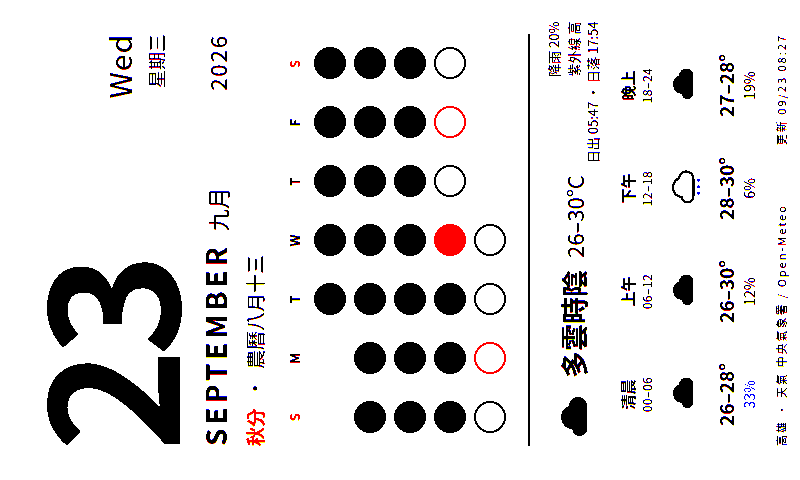
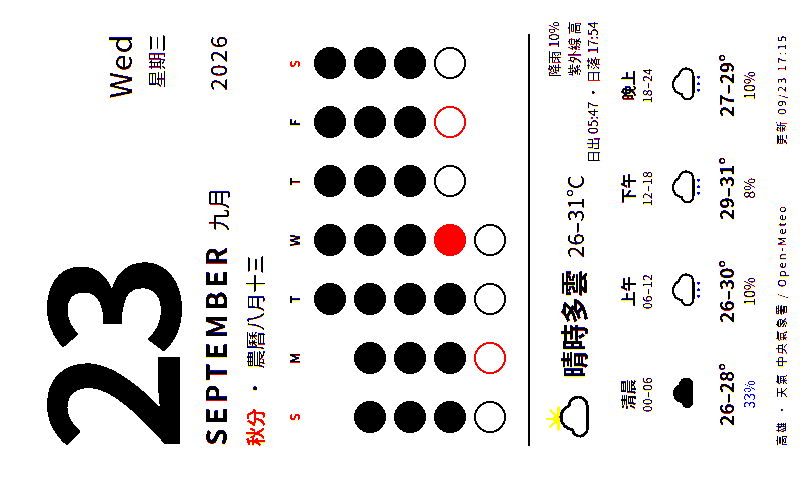
deploy: cf7d1051eb6821bc691ba0ade4beb12cdf9fe0ef

diff --git a/calendar.html b/calendar.html
@@ -54,9 +54,9 @@
   <div class="today"><span class="hl">秋分</span><span>·</span><span class="lunar">農曆八月十三</span></div>
   <div class="grid"><div class="h we">S</div><div class="h">M</div><div class="h">T</div><div class="h">W</div><div class="h">T</div><div class="h">F</div><div class="h we">S</div><div class="dot empty"></div><div class="dot empty"></div><div class="dot past" title="1"></div><div class="dot past" title="2"></div><div class="dot past" title="3"></div><div class="dot past" title="4"></div><div class="dot past" title="5"></div><div class="dot past" title="6"></div><div class="dot past" title="7"></div><div class="dot past" title="8"></div><div class="dot past" title="9"></div><div class="dot past" title="10"></div><div class="dot past" title="11"></div><div class="dot past" title="12"></div><div class="dot past" title="13"></div><div class="dot past" title="14"></div><div class="dot past" title="15"></div><div class="dot past" title="16"></div><div class="dot past" title="17"></div><div class="dot past" title="18"></div><div class="dot past" title="19"></div><div class="dot past" title="20"></div><div class="dot past" title="21"></div><div class="dot past" title="22"></div><div class="dot now" title="23"></div><div class="dot future" title="24"></div><div class="dot future hol" title="25"></div><div class="dot future" title="26"></div><div class="dot future" title="27"></div><div class="dot future hol" title="28"></div><div class="dot future" title="29"></div><div class="dot future" title="30"></div></div>
   <div class="wx"><div class="line">
-    <div class="wxhead"><svg viewBox="0 0 64 68" xmlns="http://www.w3.org/2000/svg"><path d="M20 50h26a11 11 0 0 0 1-22 15 15 0 0 0-29 4 9 9 0 0 0 2 18z" fill="#000"/></svg><span class="desc">多雲時陰</span><span class="temp">26–30°C</span>
-      <div class="meta">降雨 20%<br>紫外線 高<br>日出 05:47 · 日落 17:54</div></div>
-    <div class="slots"><div class="slot"><div class="n">清晨</div><div class="hrs">00–06</div><svg viewBox="0 0 64 68" xmlns="http://www.w3.org/2000/svg"><path d="M20 50h26a11 11 0 0 0 1-22 15 15 0 0 0-29 4 9 9 0 0 0 2 18z" fill="#000"/></svg><div class="t">26–28°</div><div class="p ">33%</div></div><div class="slot"><div class="n">上午</div><div class="hrs">06–12</div><svg viewBox="0 0 64 68" xmlns="http://www.w3.org/2000/svg"><path d="M20 50h26a11 11 0 0 0 1-22 15 15 0 0 0-29 4 9 9 0 0 0 2 18z" fill="#000"/></svg><div class="t">26–30°</div><div class="p dry">12%</div></div><div class="slot"><div class="n">下午</div><div class="hrs">12–18</div><svg viewBox="0 0 64 68" xmlns="http://www.w3.org/2000/svg"><path d="M20 50h26a11 11 0 0 0 1-22 15 15 0 0 0-29 4 9 9 0 0 0 2 18z" fill="#fff" stroke="#000" stroke-width="3.5" stroke-linejoin="round"/><g fill="#0040ff"><circle cx="24" cy="58" r="2.2"/><circle cx="34" cy="58" r="2.2"/><circle cx="44" cy="58" r="2.2"/></g></svg><div class="t">28–30°</div><div class="p dry">6%</div></div><div class="slot"><div class="n">晚上</div><div class="hrs">18–24</div><svg viewBox="0 0 64 68" xmlns="http://www.w3.org/2000/svg"><path d="M20 50h26a11 11 0 0 0 1-22 15 15 0 0 0-29 4 9 9 0 0 0 2 18z" fill="#000"/></svg><div class="t">27–28°</div><div class="p dry">19%</div></div></div>
+    <div class="wxhead"><svg viewBox="0 0 64 68" xmlns="http://www.w3.org/2000/svg"><g transform="translate(12 -4) scale(.6)"><circle cx="32" cy="32" r="11" fill="#f5c400"/><g stroke="#f5c400" stroke-width="4" stroke-linecap="round"><line x1="32" y1="32" x2="32" y2="8" transform="rotate(0 32 32)"/><line x1="32" y1="32" x2="32" y2="8" transform="rotate(45 32 32)"/><line x1="32" y1="32" x2="32" y2="8" transform="rotate(90 32 32)"/><line x1="32" y1="32" x2="32" y2="8" transform="rotate(135 32 32)"/><line x1="32" y1="32" x2="32" y2="8" transform="rotate(180 32 32)"/><line x1="32" y1="32" x2="32" y2="8" transform="rotate(225 32 32)"/><line x1="32" y1="32" x2="32" y2="8" transform="rotate(270 32 32)"/><line x1="32" y1="32" x2="32" y2="8" transform="rotate(315 32 32)"/></g></g><path d="M20 50h26a11 11 0 0 0 1-22 15 15 0 0 0-29 4 9 9 0 0 0 2 18z" fill="#fff" stroke="#000" stroke-width="3.5" stroke-linejoin="round"/></svg><span class="desc">晴時多雲</span><span class="temp">26–31°C</span>
+      <div class="meta">降雨 10%<br>紫外線 高<br>日出 05:47 · 日落 17:54</div></div>
+    <div class="slots"><div class="slot"><div class="n">清晨</div><div class="hrs">00–06</div><svg viewBox="0 0 64 68" xmlns="http://www.w3.org/2000/svg"><path d="M20 50h26a11 11 0 0 0 1-22 15 15 0 0 0-29 4 9 9 0 0 0 2 18z" fill="#000"/></svg><div class="t">26–28°</div><div class="p ">33%</div></div><div class="slot"><div class="n">上午</div><div class="hrs">06–12</div><svg viewBox="0 0 64 68" xmlns="http://www.w3.org/2000/svg"><path d="M20 50h26a11 11 0 0 0 1-22 15 15 0 0 0-29 4 9 9 0 0 0 2 18z" fill="#fff" stroke="#000" stroke-width="3.5" stroke-linejoin="round"/><g fill="#0040ff"><circle cx="24" cy="58" r="2.2"/><circle cx="34" cy="58" r="2.2"/><circle cx="44" cy="58" r="2.2"/></g></svg><div class="t">26–30°</div><div class="p dry">10%</div></div><div class="slot"><div class="n">下午</div><div class="hrs">12–18</div><svg viewBox="0 0 64 68" xmlns="http://www.w3.org/2000/svg"><path d="M20 50h26a11 11 0 0 0 1-22 15 15 0 0 0-29 4 9 9 0 0 0 2 18z" fill="#fff" stroke="#000" stroke-width="3.5" stroke-linejoin="round"/><g fill="#0040ff"><circle cx="24" cy="58" r="2.2"/><circle cx="34" cy="58" r="2.2"/><circle cx="44" cy="58" r="2.2"/></g></svg><div class="t">29–31°</div><div class="p dry">8%</div></div><div class="slot"><div class="n">晚上</div><div class="hrs">18–24</div><svg viewBox="0 0 64 68" xmlns="http://www.w3.org/2000/svg"><path d="M20 50h26a11 11 0 0 0 1-22 15 15 0 0 0-29 4 9 9 0 0 0 2 18z" fill="#fff" stroke="#000" stroke-width="3.5" stroke-linejoin="round"/><g fill="#0040ff"><circle cx="24" cy="58" r="2.2"/><circle cx="34" cy="58" r="2.2"/><circle cx="44" cy="58" r="2.2"/></g></svg><div class="t">27–29°</div><div class="p dry">10%</div></div></div>
   </div></div>
-  <div class="foot"><span>高雄 · 天氣 中央氣象署 / Open-Meteo</span><span>更新 09/23 08:27</span></div>
+  <div class="foot"><span>高雄 · 天氣 中央氣象署 / Open-Meteo</span><span>更新 09/23 17:15</span></div>
 </div></body></html>
